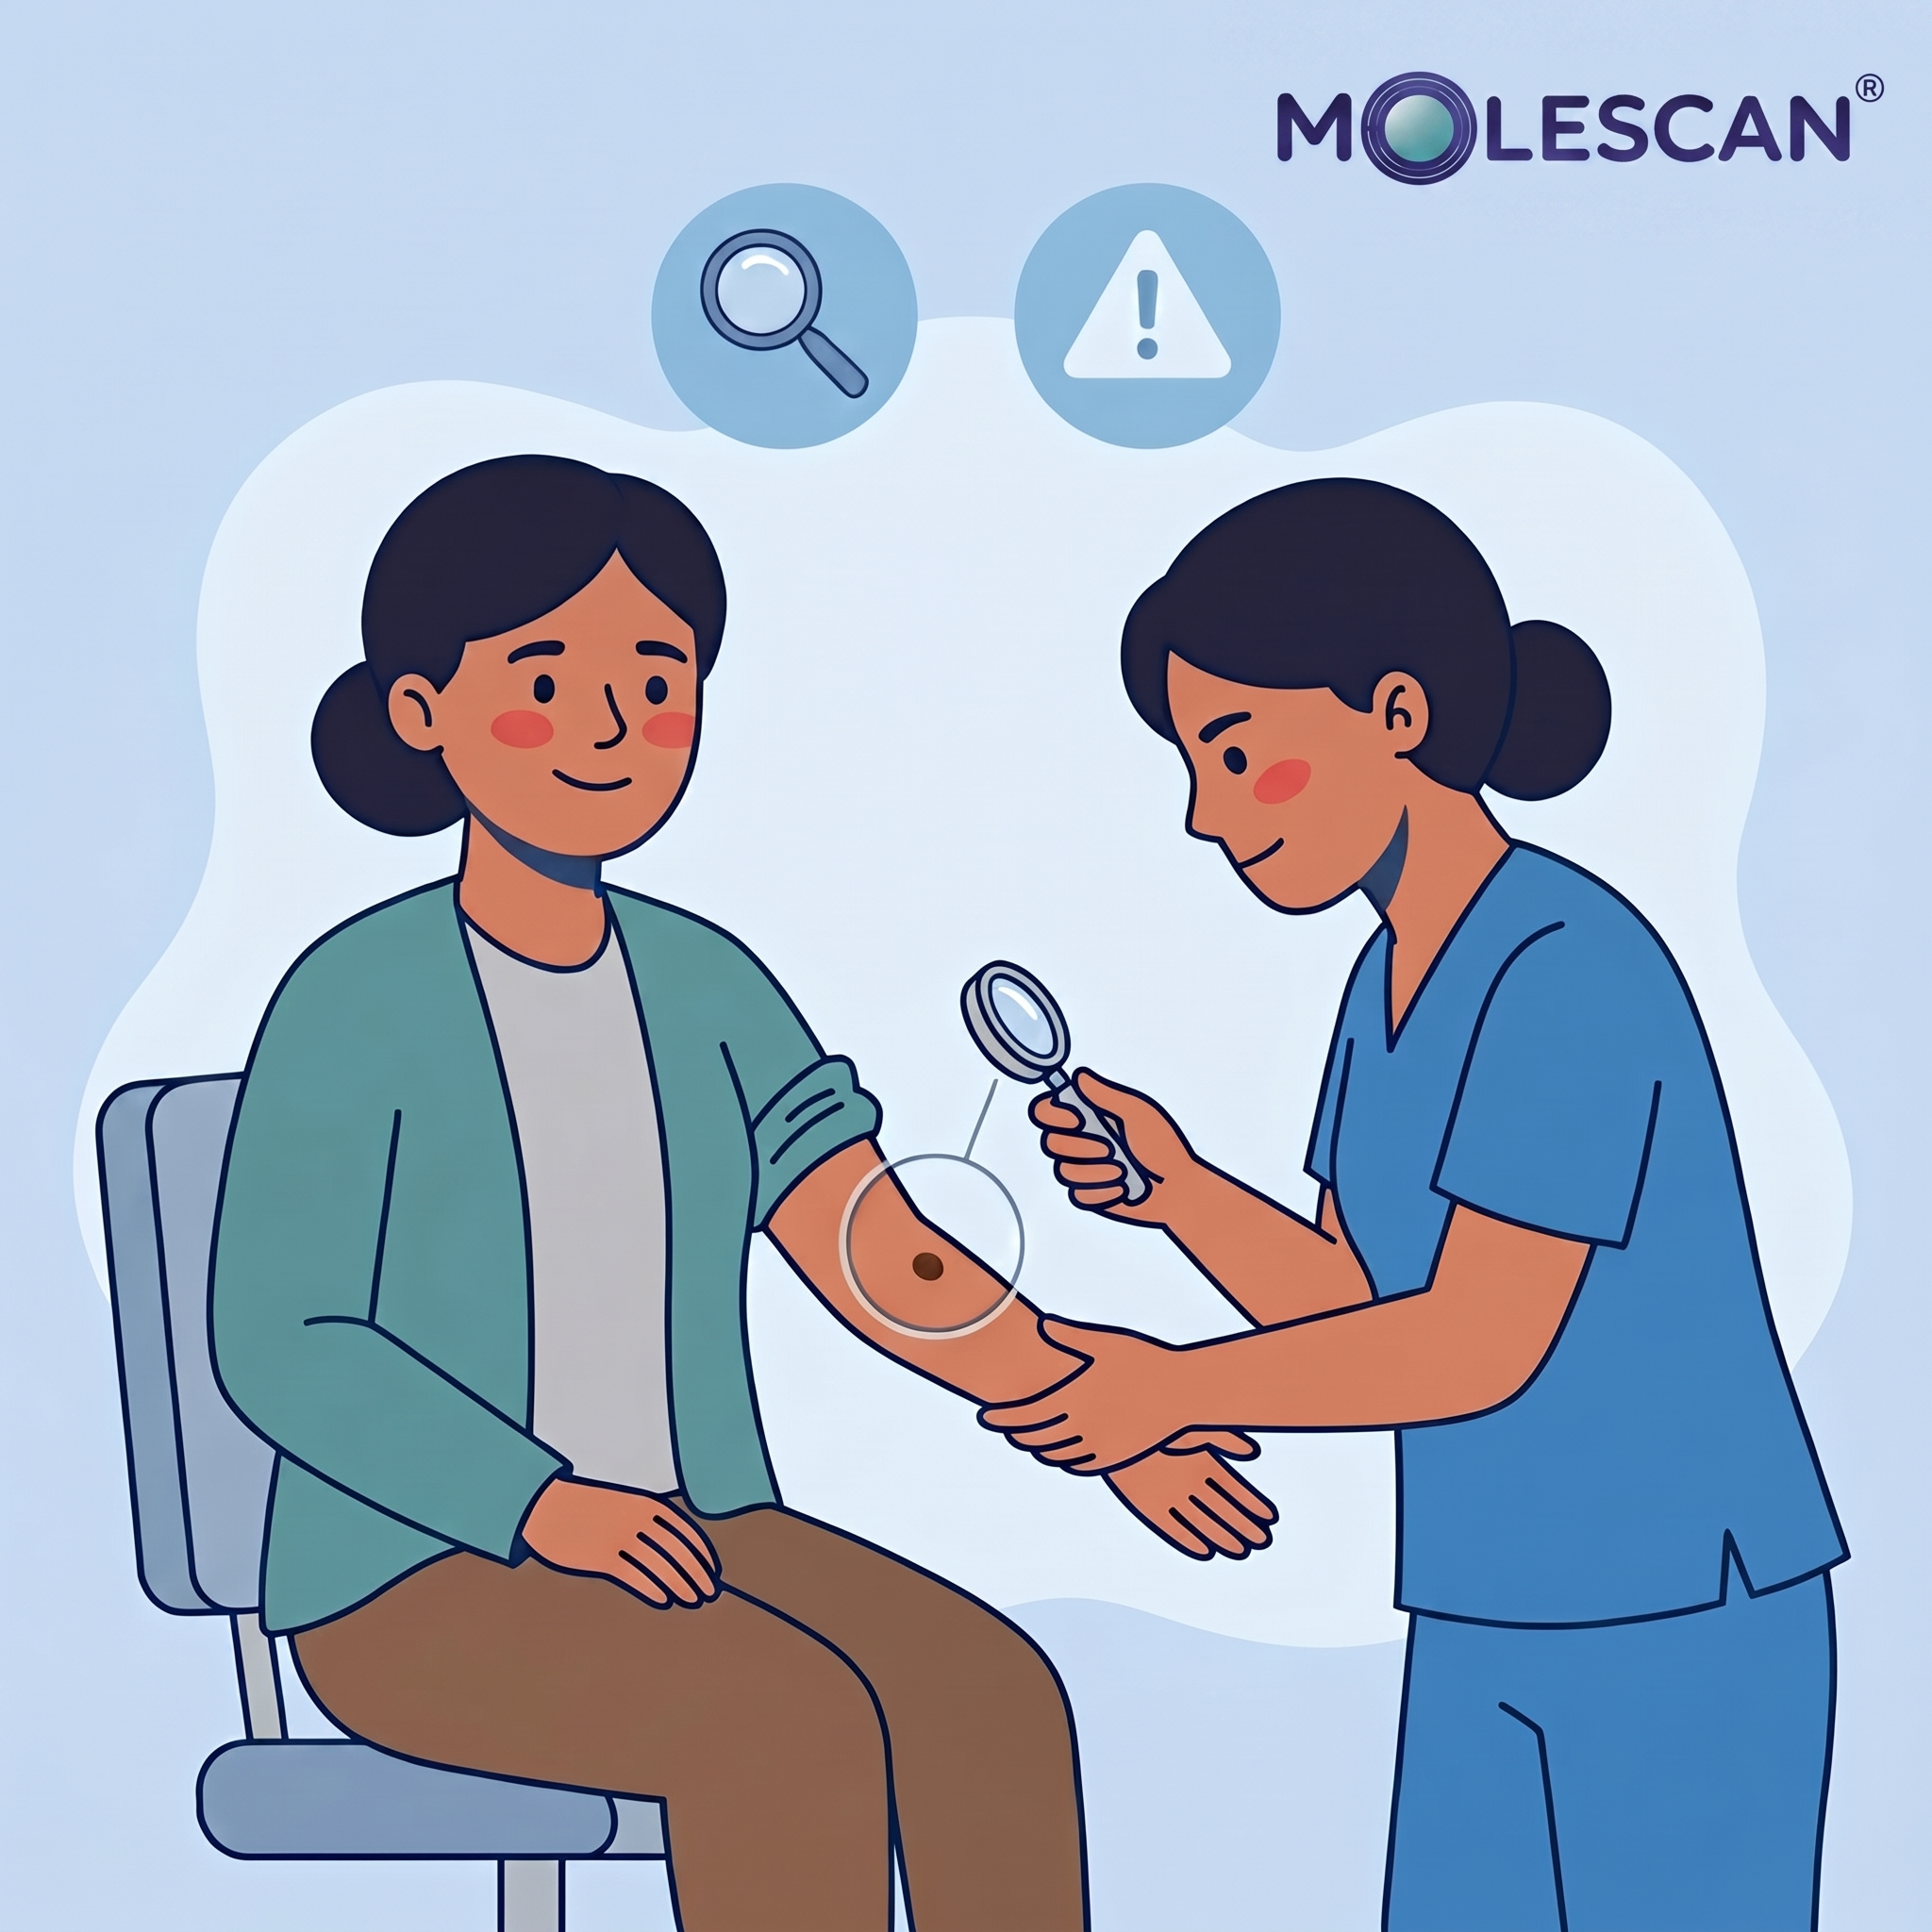
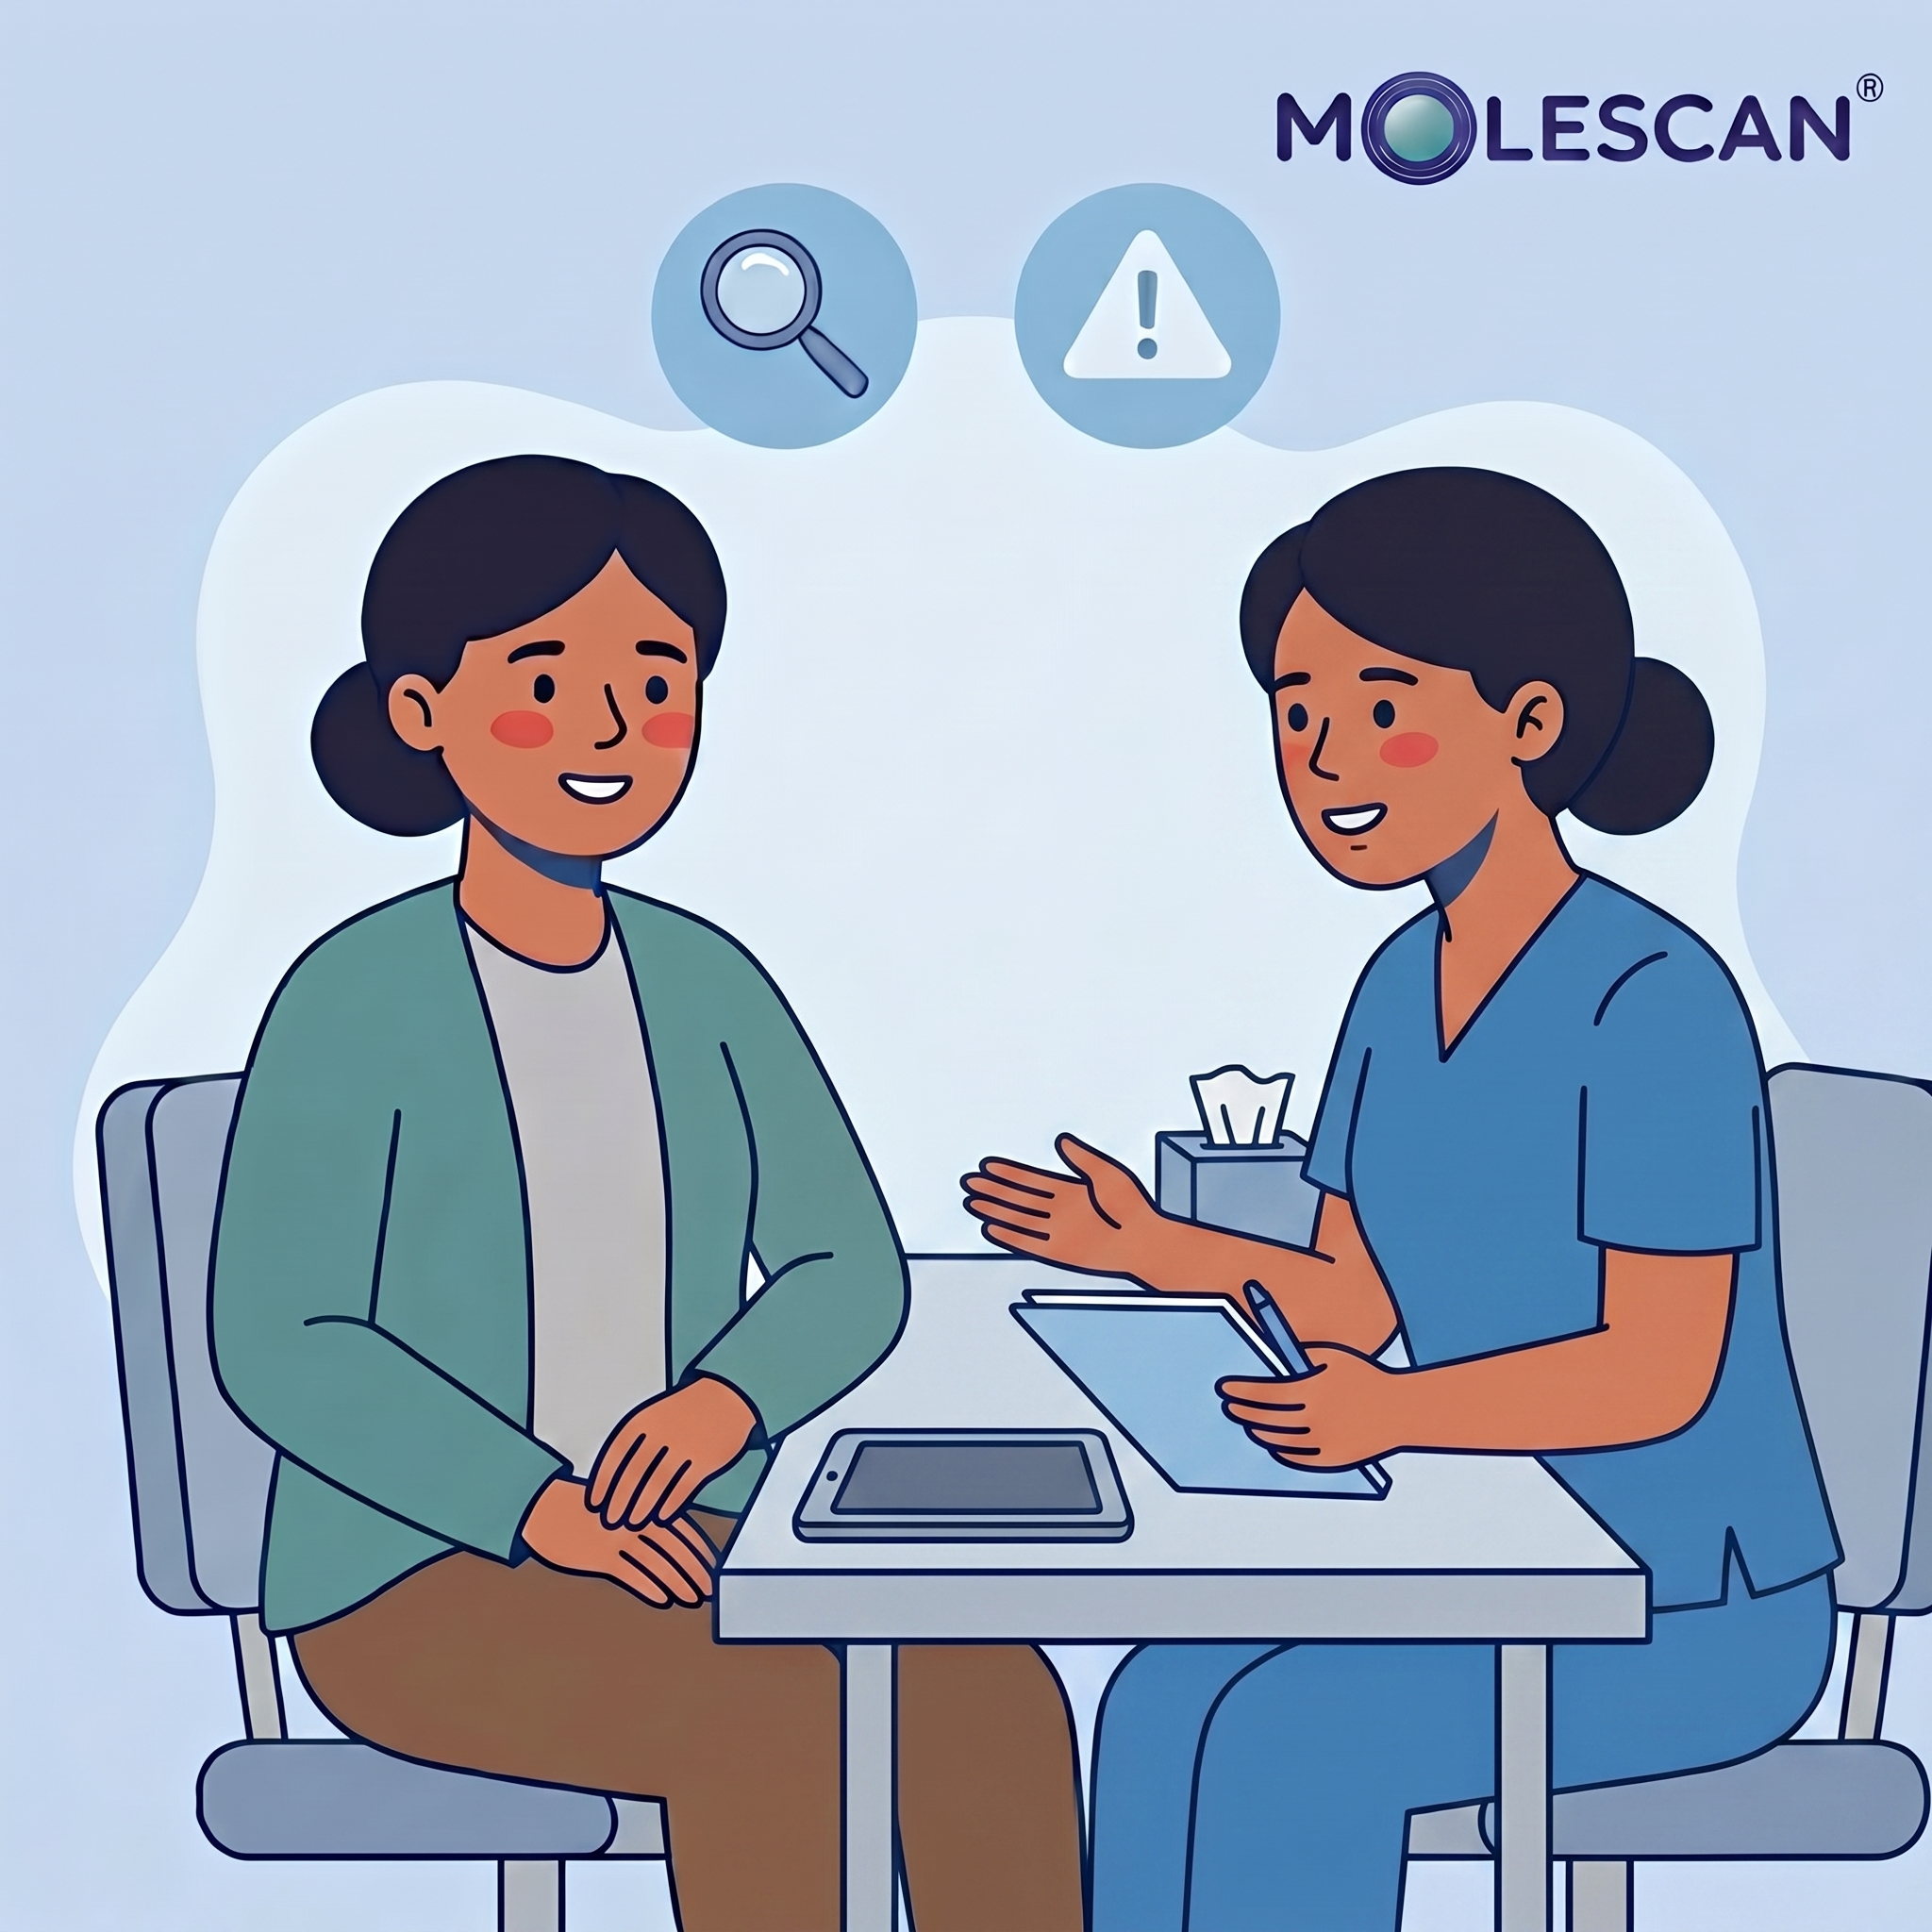
Update NHS pathway step 1 title; refresh pathway step images
Reword step 1 of the NHS pathway diagram to "Patient concern about a
mole or a skin lesion" to cover both moles and other skin lesions.
Replace clinic-pathway step 2 and step 4 images and pathway step 5
image with newer versions. Add .claude/ to .gitignore.

diff --git a/molescan-website/components/sections/PathwayDiagram.tsx b/molescan-website/components/sections/PathwayDiagram.tsx
@@ -10,7 +10,7 @@ interface PathwayDiagramProps {
 const stepsRow1 = [
   {
     num: 1,
-    title: "Patient concerned about a mole",
+    title: "Patient concern about a mole or a skin lesion",
     desc: "A patient notices a new or changing mole and wants to get it assessed by their GP.",
     image: "/images/pathway/step1.jpg",
   },